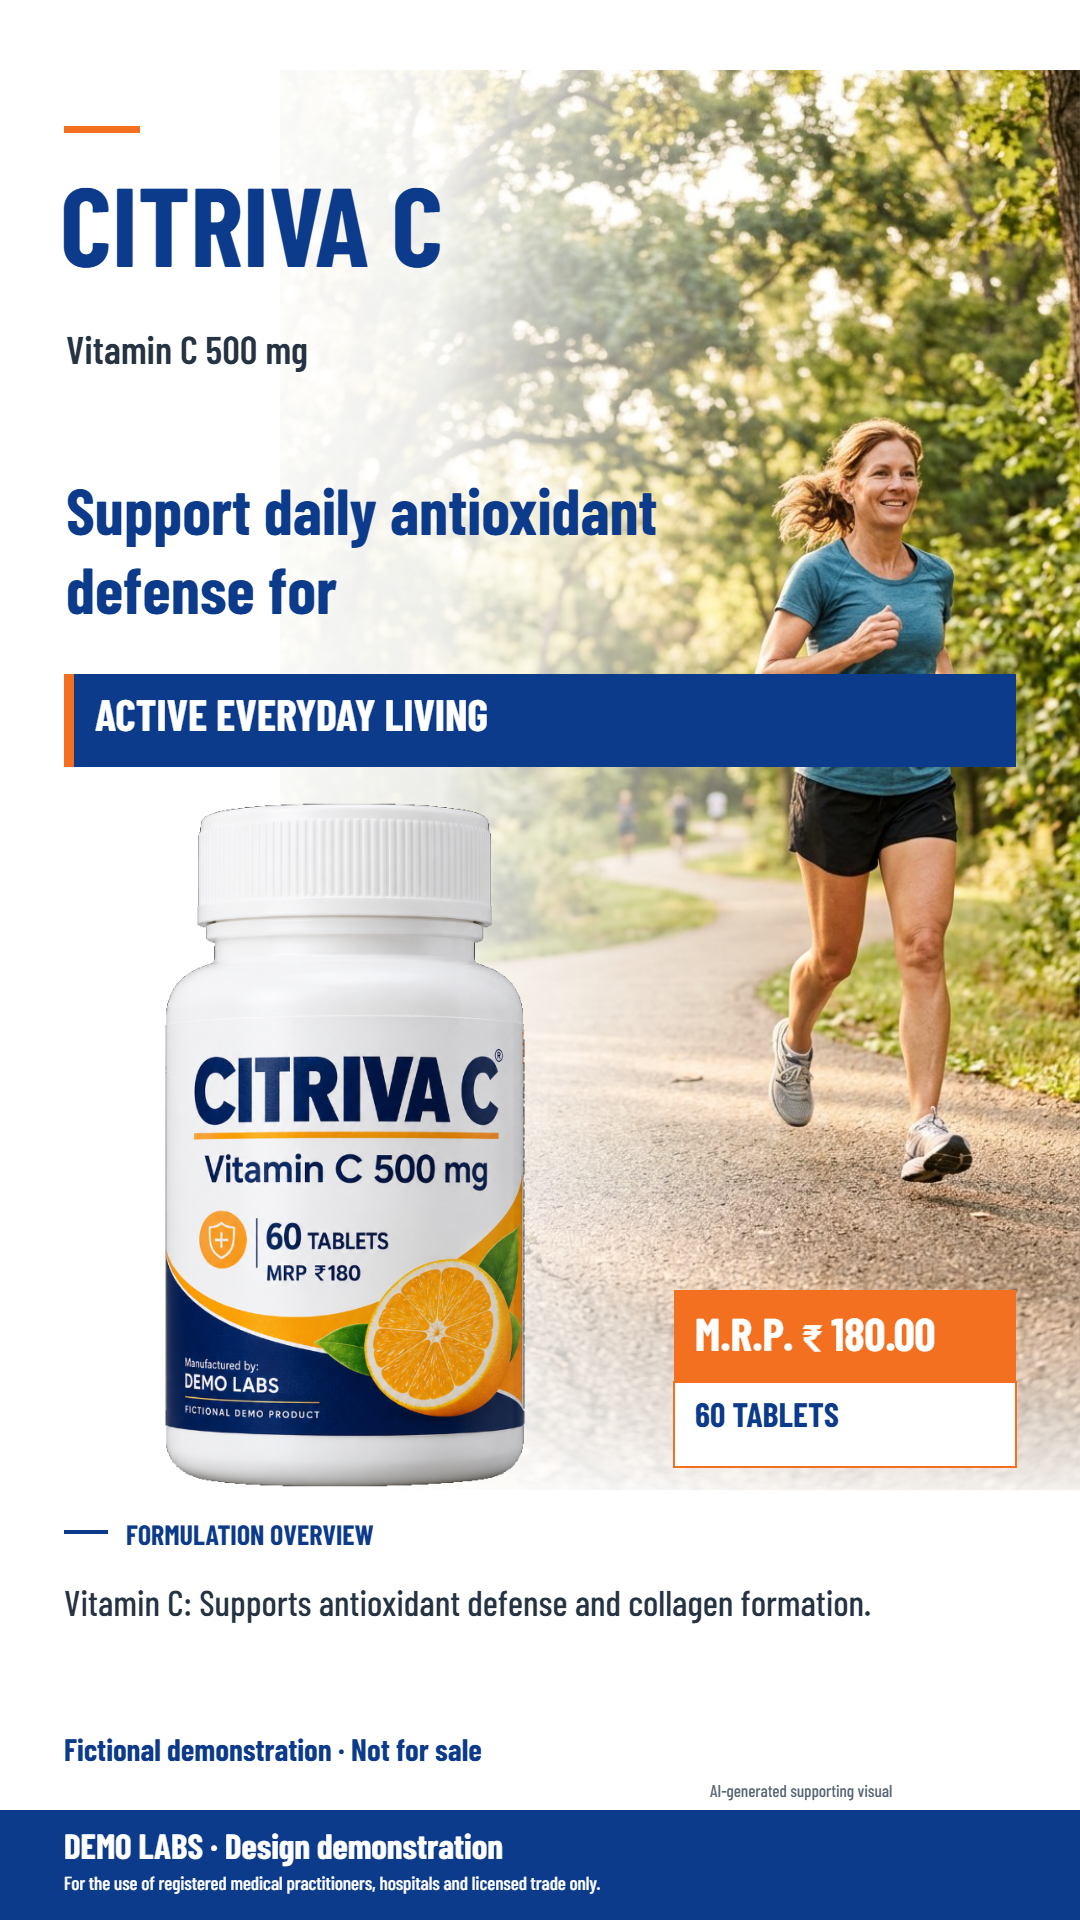
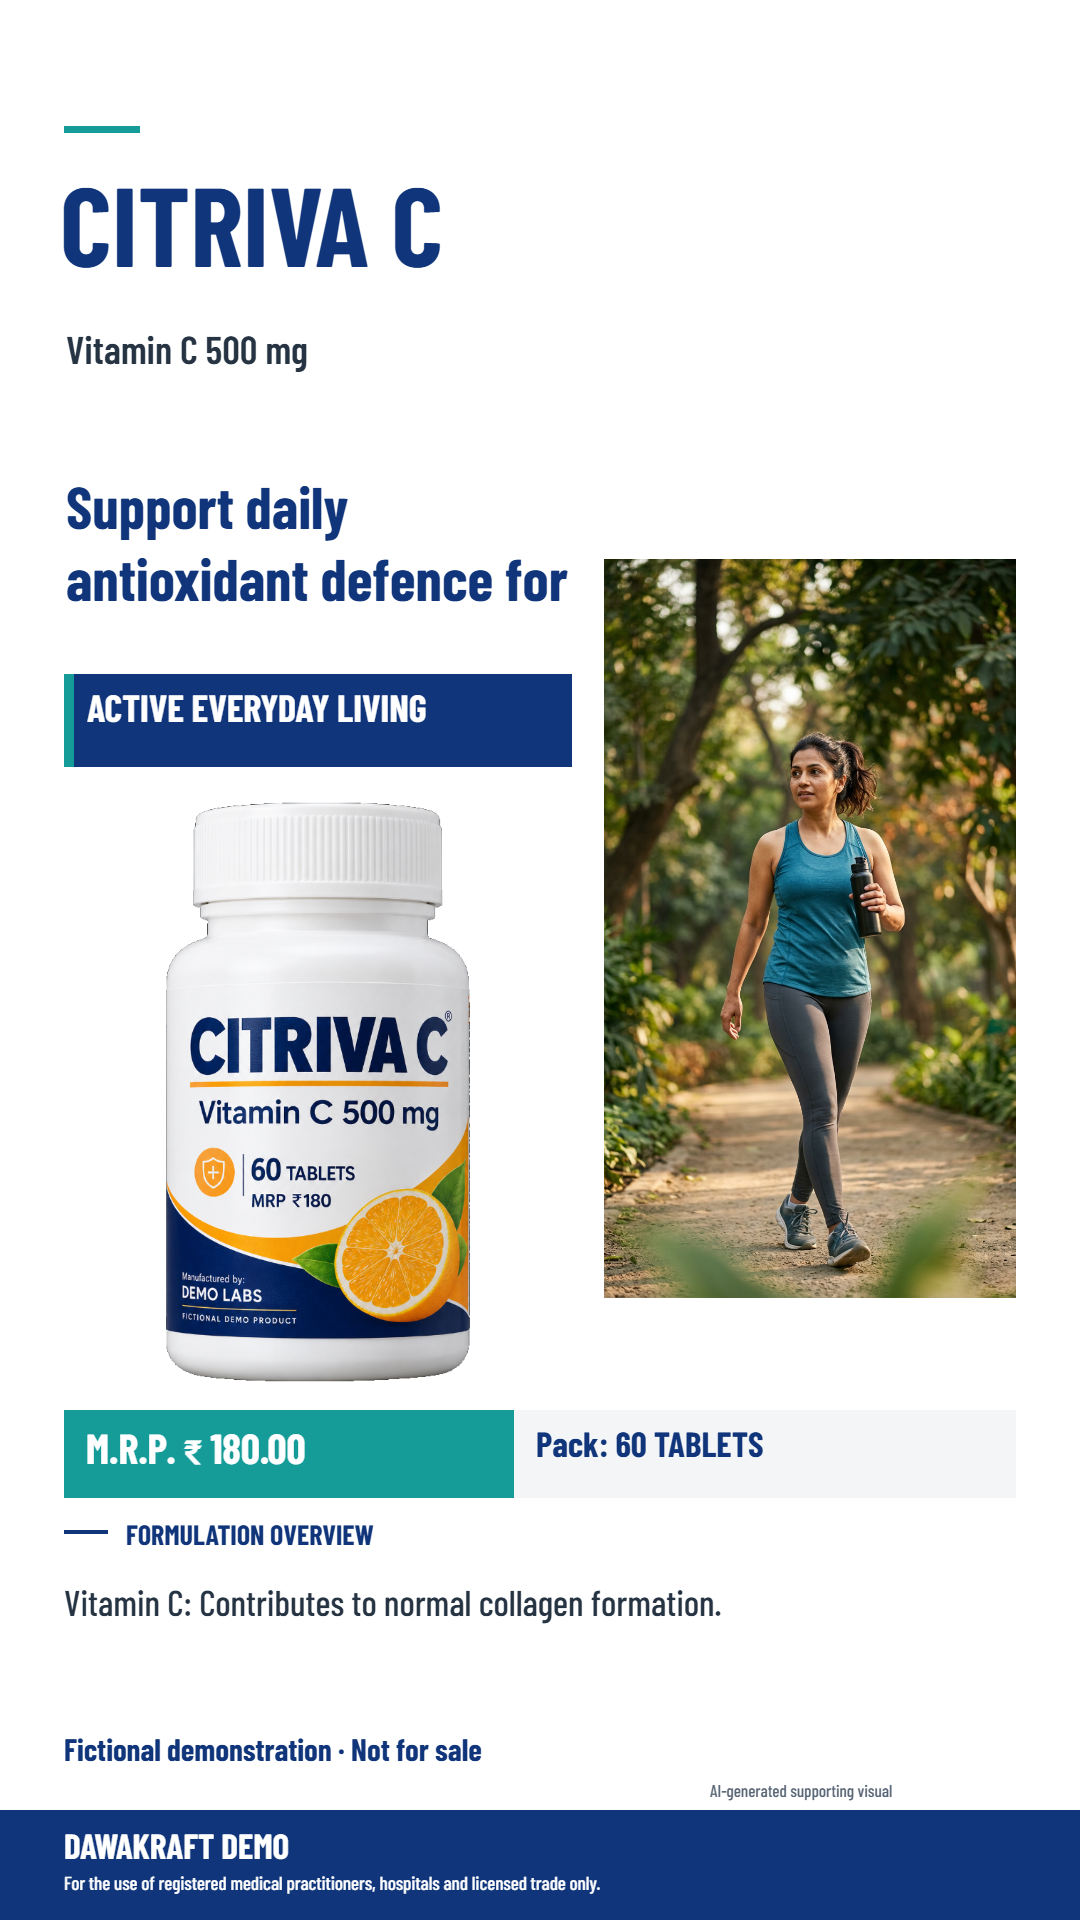
Prevent Story text and price overlapping product imagery

diff --git a/src/lib/circular/promo/story.ts b/src/lib/circular/promo/story.ts
@@ -1,6 +1,6 @@
 import { TRADE_LINE } from "../../constants";
 import { mrpText } from "../../format";
-import { drawFit, font, imageSize, type Ctx } from "../draw";
+import { drawFit, font, type Ctx } from "../draw";
 import type { PromoInput } from "./render";
 
 /** Word-wrap without dropping ingredient names or strengths. */
@@ -25,42 +25,32 @@ function block(ctx: Ctx, text: string, x: number, y: number, w: number, h: numbe
     size--;
   } while (true);
   ctx.fillStyle = colour;
+  ctx.save(); ctx.beginPath(); ctx.rect(x, y, w, h); ctx.clip();
   wrapped.forEach((line, i) => ctx.fillText(line, x, y + size + i * size * 1.22));
+  ctx.restore();
 }
 
 /** 9:16 WhatsApp Story, with space above and below the essential content for app controls. */
 export function drawStoryPromo(ctx: Ctx, { product: p, company: c, promo, theme: t, image, photo, logo }: PromoInput) {
   ctx.fillStyle = "#FFFFFF"; ctx.fillRect(0, 0, 1080, 1920);
-  if (photo) {
-    const [iw, ih] = imageSize(photo), w = 800, h = 1420;
-    const scale = Math.max(w / iw, h / ih);
-    ctx.save();
-    if (promo.layout === "portrait") { ctx.beginPath(); ctx.ellipse(830, 790, 400, 700, 0, 0, Math.PI * 2); ctx.clip(); }
-    ctx.drawImage(photo, Math.max(0, iw - w / scale), Math.max(0, (ih - h / scale) / 2), w / scale, h / scale, 280, 70, w, h);
-    ctx.restore();
-    const fade = ctx.createLinearGradient(180, 0, 830, 0);
-    fade.addColorStop(0, "#FFFFFF"); fade.addColorStop(.4, "#FFFFFFE8"); fade.addColorStop(1, "#FFFFFF00");
-    ctx.fillStyle = fade; ctx.fillRect(0, 0, 1080, 1490);
-    const bottom = ctx.createLinearGradient(0, 1280, 0, 1520);
-    bottom.addColorStop(0, "#FFFFFF00"); bottom.addColorStop(1, "#FFFFFF");
-    ctx.fillStyle = bottom; ctx.fillRect(0, 1280, 1080, 250);
-  }
+  // Reserved image zones: neither the banner nor the price can cover the person or pack.
+  // Contain the complete supporting image so faces/hands are never cropped by the layout.
+  if (photo) drawFit(ctx, photo, 604, 470, 412, 917);
   ctx.fillStyle = t.ribbon; ctx.fillRect(64, 126, 76, 7);
   block(ctx, p.name, 60, 155, 955, 155, 112, t.title, 800);
-  block(ctx, p.composition, 66, 325, 670, 120, 39, "#253342");
-  block(ctx, promo.headline, 66, 470, 610, 172, 65, t.title, 800);
+  block(ctx, p.composition, 66, 325, 950, 120, 39, "#253342");
+  block(ctx, promo.headline, 66, 470, 506, 172, 65, t.title, 800);
   if (promo.banner) {
-    ctx.fillStyle = t.title; ctx.fillRect(64, 674, 952, 93);
+    ctx.fillStyle = t.title; ctx.fillRect(64, 674, 508, 93);
     ctx.fillStyle = t.ribbon; ctx.fillRect(64, 674, 10, 93);
-    block(ctx, promo.banner, 95, 687, 880, 65, 44, "#FFFFFF", 800);
+    block(ctx, promo.banner, 87, 684, 462, 73, 38, "#FFFFFF", 800);
   }
   // The source product is prominent and remains unfiltered: no recolouring or generated artwork.
-  if (image) drawFit(ctx, image, 50, 797, 590, 696);
-  ctx.fillStyle = t.ribbon; ctx.fillRect(674, 1290, 342, 92);
-  block(ctx, `M.R.P. ${mrpText(p.mrp)}`, 695, 1305, 300, 62, 46, "#FFFFFF", 800);
-  ctx.fillStyle = "#FFFFFF"; ctx.fillRect(674, 1382, 342, 85);
-  block(ctx, p.packSize, 695, 1393, 300, 58, 34, t.title, 700);
-  ctx.strokeStyle = t.ribbon; ctx.lineWidth = 2; ctx.strokeRect(674, 1382, 342, 85);
+  if (image) drawFit(ctx, image, 64, 797, 508, 590);
+  ctx.fillStyle = t.ribbon; ctx.fillRect(64, 1410, 450, 88);
+  block(ctx, `M.R.P. ${mrpText(p.mrp)}`, 86, 1422, 406, 62, 42, "#FFFFFF", 800);
+  ctx.fillStyle = "#F3F5F7"; ctx.fillRect(514, 1410, 502, 88);
+  block(ctx, `Pack: ${p.packSize}`, 536, 1422, 458, 62, 35, t.title, 700);
   const uses = [...promo.indications, ...(promo.usesCheckedFor === promo.suggestedUses?.join(" | ") ? promo.suggestedUses ?? [] : [])];
   const points = promo.sections.slice(0, 3).map(s => `${s.title}: ${s.bullets.join(" · ")}`);
   const content = [...points, ...(uses.length ? [`Uses: ${[...new Set(uses)].join(" · ")}`] : [])];

diff --git a/docs/SHOWCASE_WORKFLOW.md b/docs/SHOWCASE_WORKFLOW.md
@@ -19,3 +19,8 @@ Source prompt: Photorealistic single upright white pharmaceutical vitamin bottle
 7. Downloaded the revised image using the studio's Download image button. Copied that exact PNG to `public/showcase/citriva-story.png` without editing its pixels. The original source is also linked visibly on the landing page.
 
 This demonstration used browser-only isolated QA storage and did not insert demonstration products into the customer's Cloudflare catalog. The real app remains configured for Cloudflare D1/R2.
+
+## 23 October layout revision
+The Story renderer now reserves separate columns for the supporting photo and product. The headline and banner stay in the left column; the price and pack row sits below both images. Text clips within its allotted region. The complete supporting image is proportionally contained rather than cropped through faces or hands.
+
+The showcase was re-exported from this same Story renderer through a temporary local QA page, using the original fictional Citriva source as a File through buildPackImage, the already reviewed fictional product facts and neutral ingredient-role text, and a new supporting photo generated by the real configured Gemini /api/promo-photo service with the revised art direction. It was not a fresh OCR/copywriting run. The temporary page was removed before deployment. The downloaded PNG was copied unchanged to public/showcase/citriva-story.png. No packaging redraw or pixel retouch was used.
